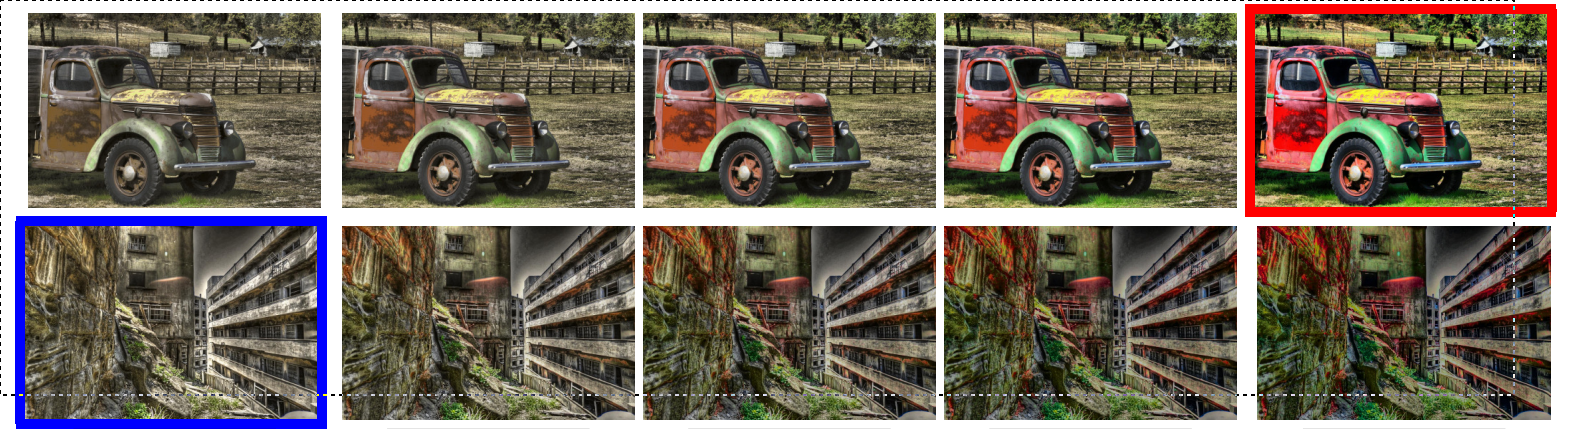
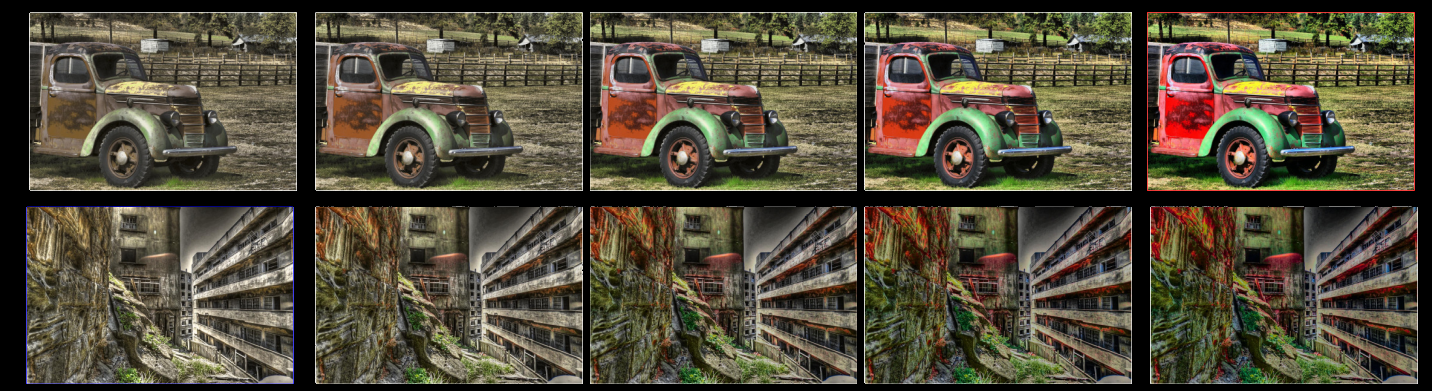
better background image

diff --git a/index.md b/index.md
@@ -2,7 +2,7 @@
 layout: page
 title:  Optimal Transport and Machine Learning  
 description: NeurIPS 2021 Workshop proposal
-background: '/img/color_transfer.png'
+background: '/img/color_transfer.jpg'
 ---
 
 Over the last few years, optimal transport (OT) has quickly become a central topic in machine learning. 
